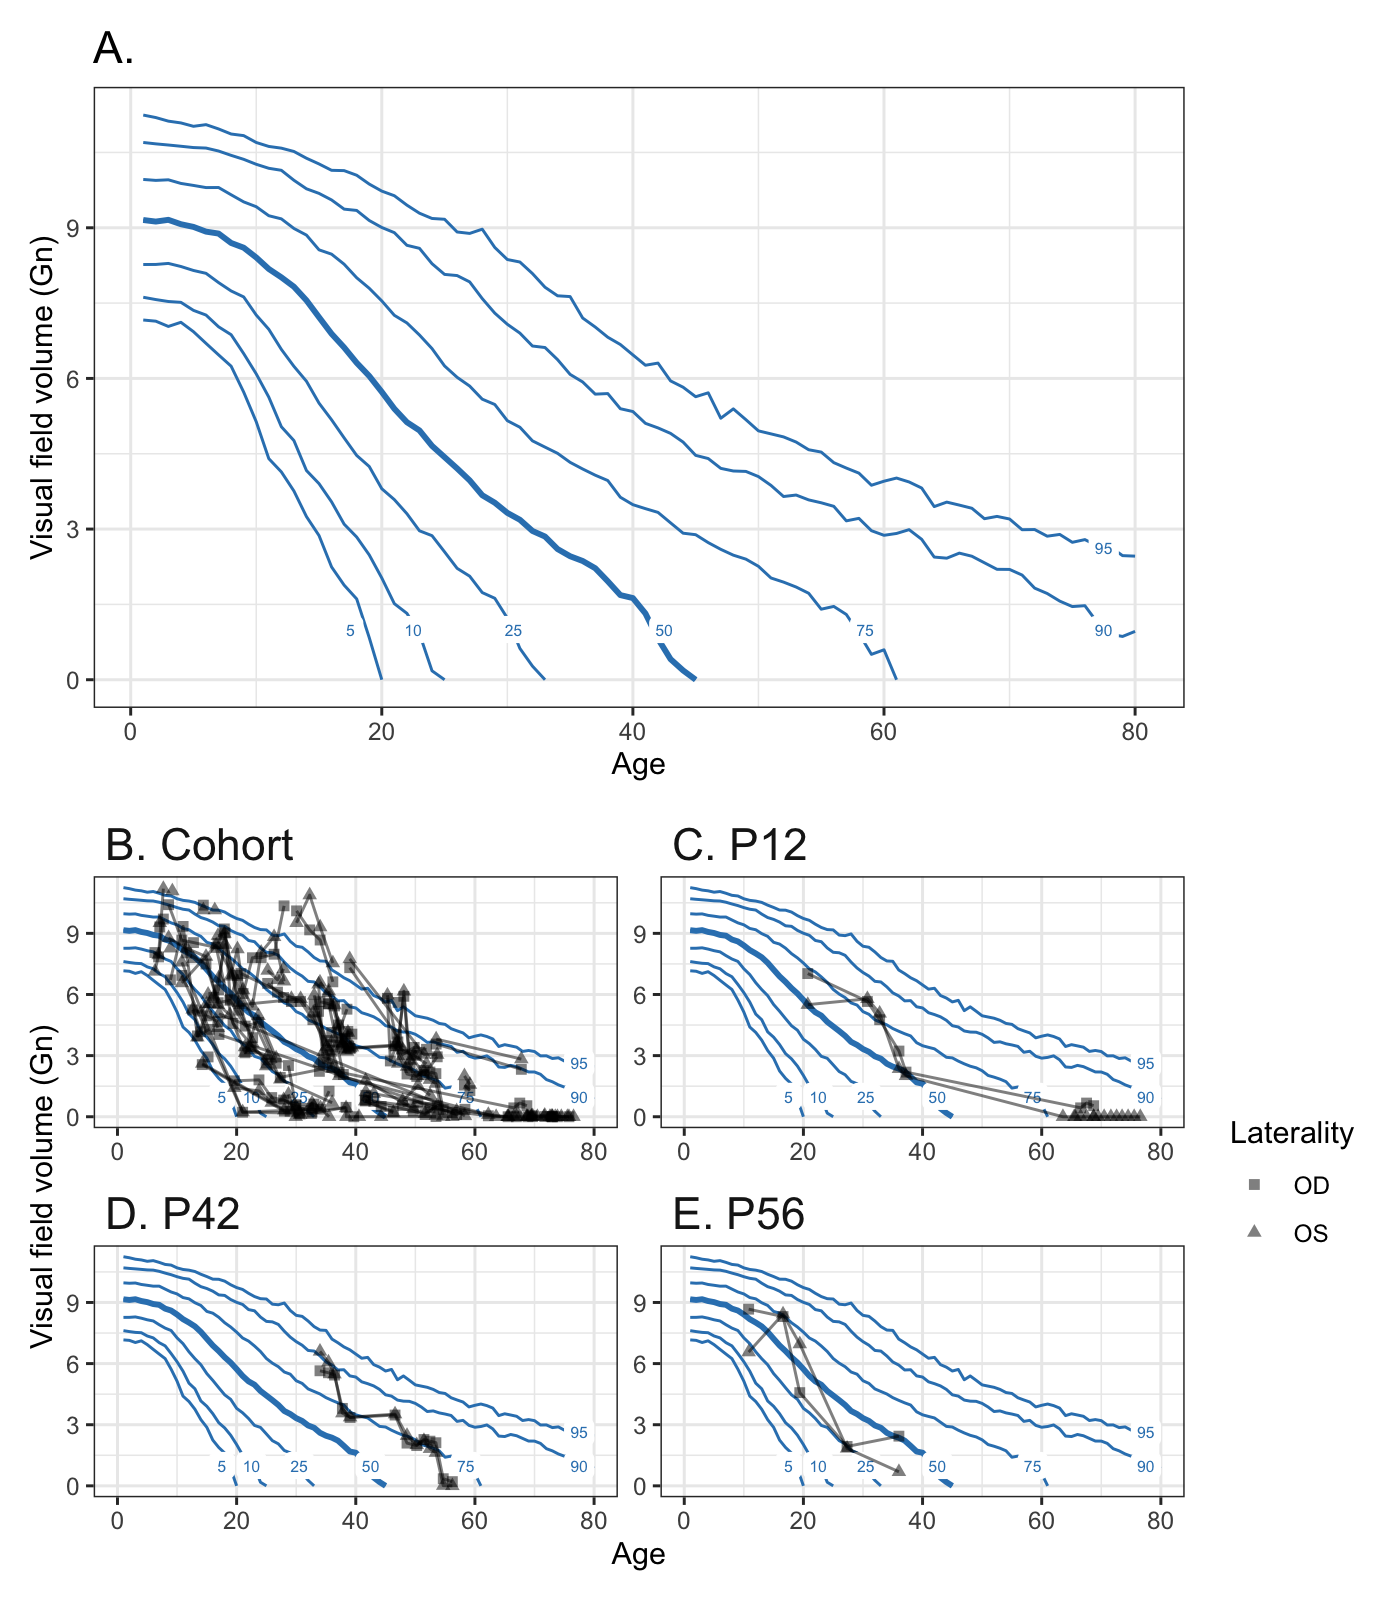
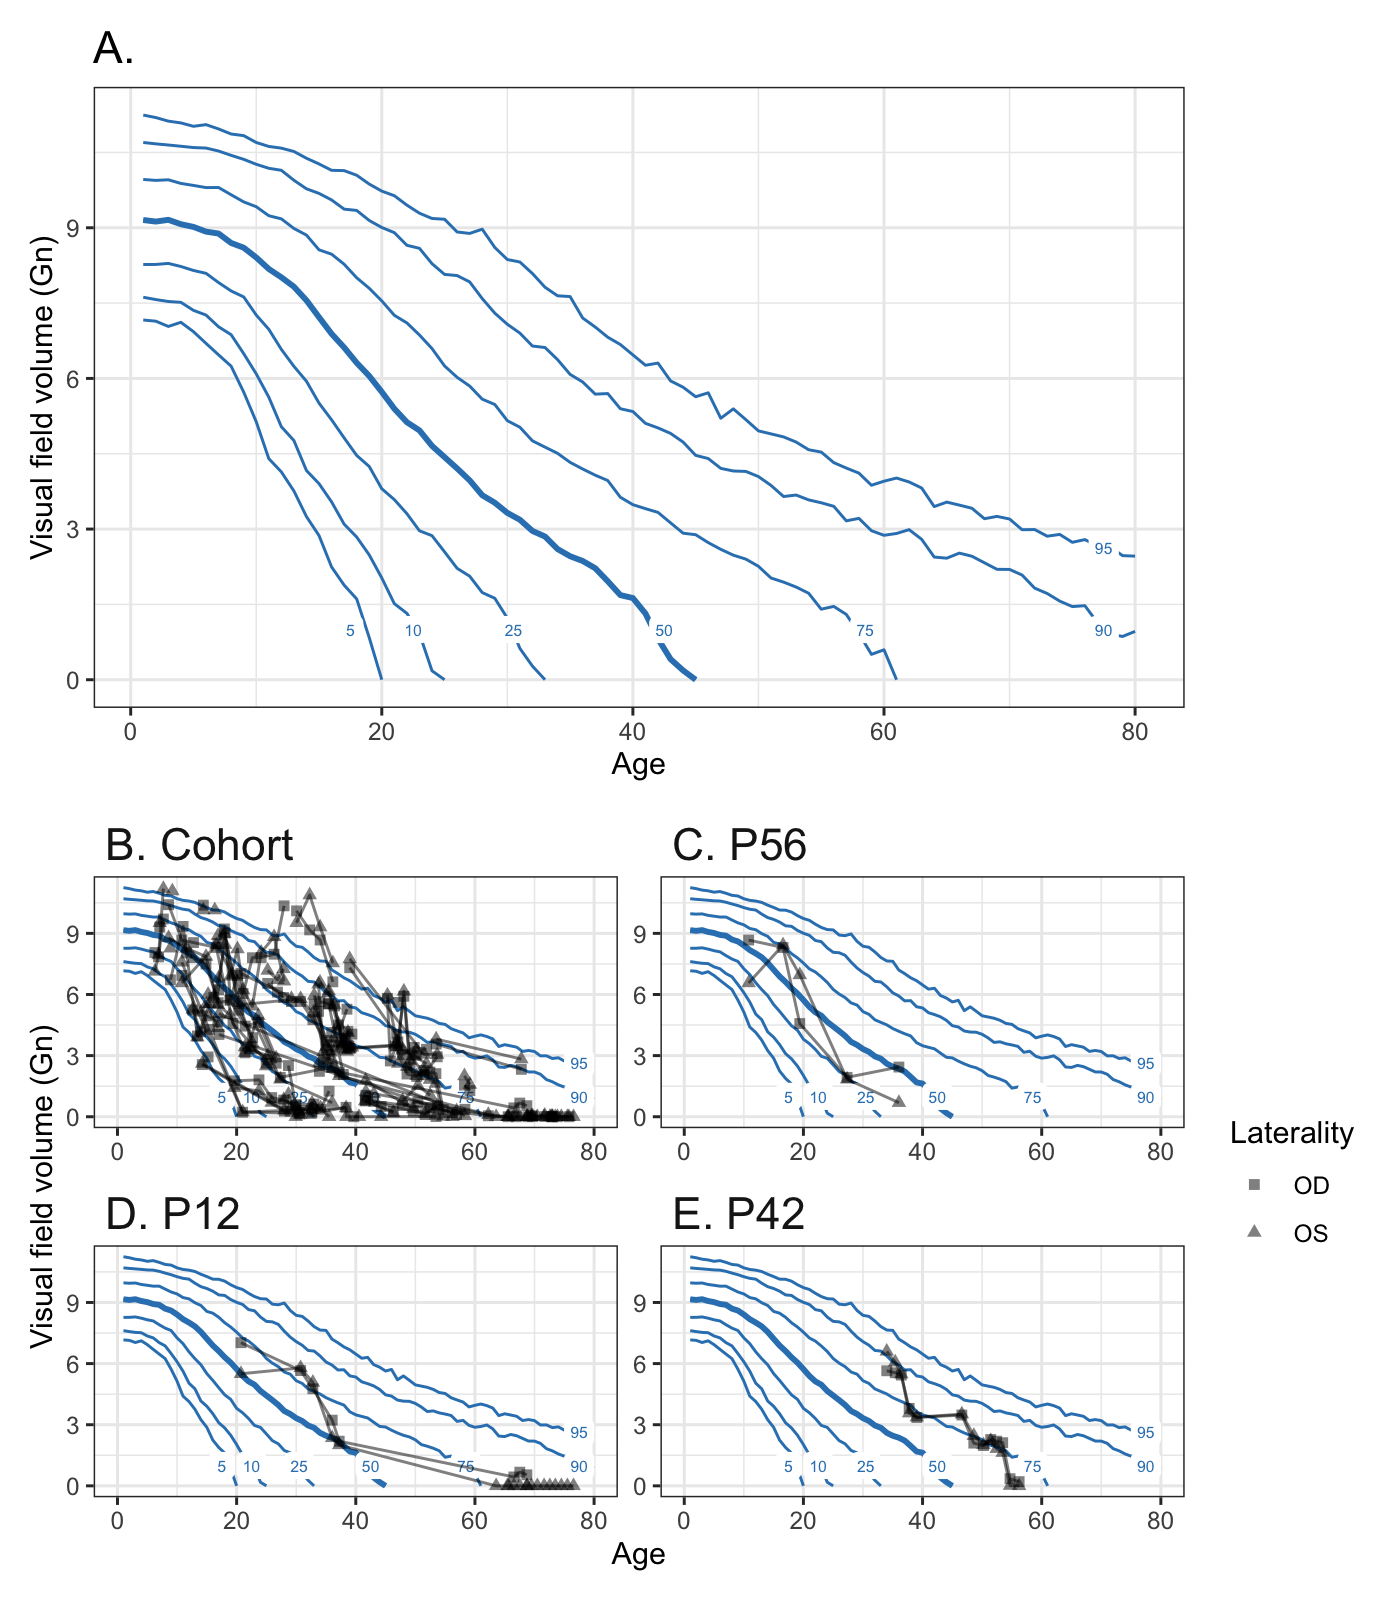
Make the order of the patients shown in the quantile plot match the order used in the paper.

diff --git a/README.md b/README.md
@@ -1442,6 +1442,8 @@ panel_labels <-
   select(pid, S) %>% 
   distinct() %>%
   filter(pid %in% c(example_pid)) %>%
+  mutate(pid = factor(pid, levels = example_pid)) %>%
+  arrange(pid) %>%
   mutate(label = paste0(LETTERS[3:5], "."))
 
 max_y <-
